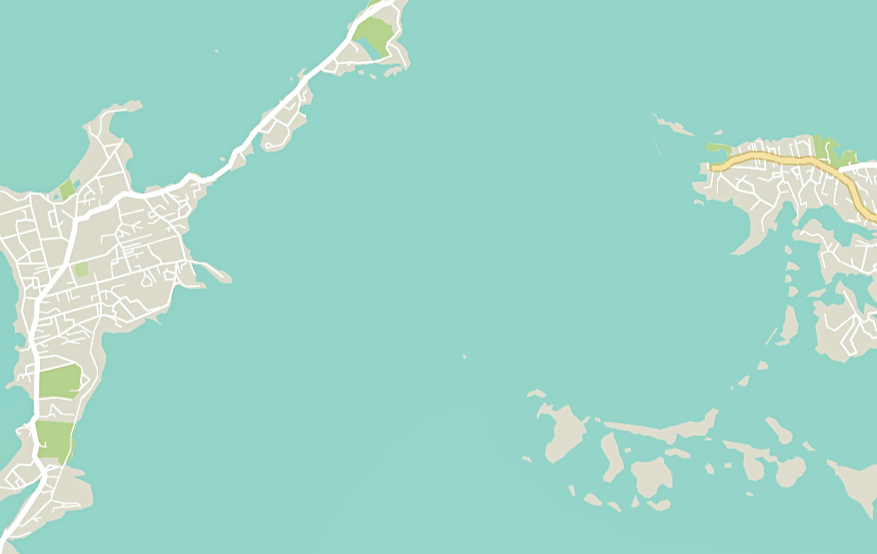
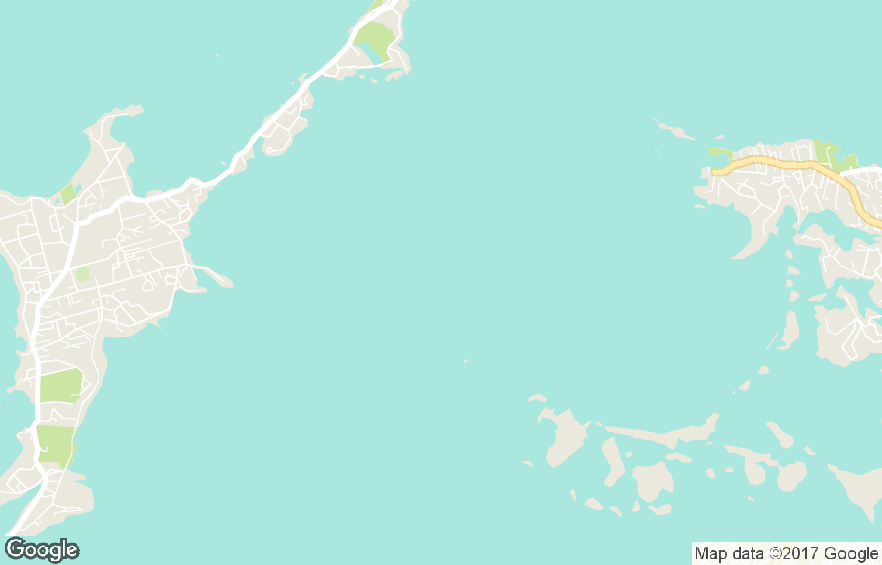
Fixed Bermuda map dimentions #issue53

diff --git a/src/main/java/seng302/utilities/DisplayUtils.java b/src/main/java/seng302/utilities/DisplayUtils.java
@@ -164,7 +164,6 @@ public class DisplayUtils {
             case "262626":
                 return DisplayUtils.class.getResource("/graphics/mapImages/LakeTekapo-map.png").toExternalForm();
             default:
-                System.out.println(getGoogleMapsURL());
                 return DisplayUtils.class.getResource("/graphics/mapImages/AC35-map.png").toExternalForm();
         }
     }
@@ -178,8 +177,8 @@ public class DisplayUtils {
         double canvasY = Controller.getAnchorHeight();
         double canvasX = Controller.getAnchorWidth(); //halved to keep within google size guidelines
 
-        Coordinate bottomMarker = new Coordinate(32.284581, -64.859520);
-        Coordinate topMarker = new Coordinate(32.317115,-64.827735);
+        Coordinate bottomMarker = new Coordinate(min.getLat(), min.getLon());
+        Coordinate topMarker = new Coordinate(max.getLat(), max.getLon());
 
         Coordinate middlePoint = DisplayUtils.midPointFromTwoCoords(bottomMarker, topMarker);
 
@@ -187,7 +186,7 @@ public class DisplayUtils {
                 "center=" +
                 middlePoint.getLat() + "," + middlePoint.getLon() +
                 "&size=" +
-                (int)1280/2 + "x" + (int)808/2 +
+                (int)canvasX/2 + "x" + (int)canvasY/2 +
                 "&style=feature:water%7Ccolor:0xaae7df" +
                 "&style=feature:all%7Celement:labels%7Cvisibility:off" +
                 "&visible=" +
